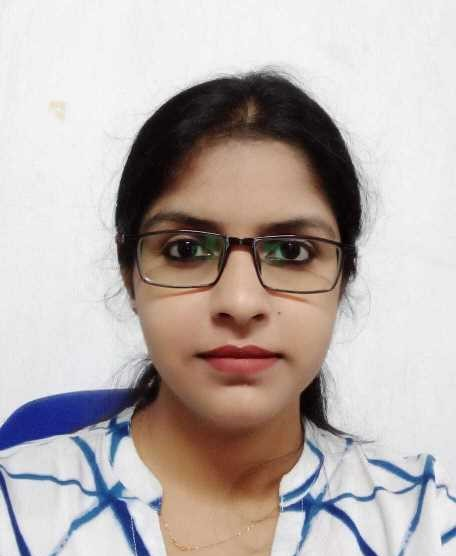
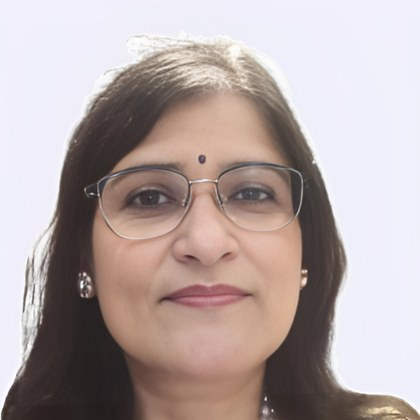
Update faculty list, add memorial tribute screen, sharpen impact infographic
Faculty section:
- Remove the President and Debapriya Roy entries, plus the duplicate
  Chairman card, Monalisa Ghosh and Sananda Chatterjee
- Add Prof. (Dr.) Avipsita Chatterjee and Prof. Sangeeta Sarkar
- Replace the photos for Koushik Dutta, Sanchita Ghosh and Kajari Sur,
  which showed the wrong people, and Baisakhi Das, which was a generic
  placeholder icon. All sourced from the official IEM faculty listings
  and cropped square for the circular card frame.

Tribute screen:
- A memorial for the late President shown after the boot sequence on a
  fresh load, for roughly four seconds including its closing fade.
- Deliberately steps outside the site's neon palette: IEM navy, brass
  and a serif, with a single ring that draws around the portrait once
  and comes to rest rather than spinning.
- Dismissable with Esc, respects prefers-reduced-motion, responsive
  down to 390px.

Impact page:
- Swap the impact infographic for the higher-resolution version from
  the InnovAI presentation deck.

diff --git a/src/components/Tribute.css b/src/components/Tribute.css
@@ -1,0 +1,225 @@
+/* ---------------------------------------------------------------------------
+   Memorial tribute screen.
+
+   The rest of the site runs on cold neon — cyan, electric purple, mono type,
+   rings that spin forever. None of that belongs on a memorial, so this screen
+   keeps only the dark ground for continuity and changes every other variable:
+   warm lamp light instead of neon, brass drawn from the IEM laurel instead of
+   cyan, a serif instead of Inter, and stillness instead of motion. The one
+   piece of movement is a ring that draws itself around the portrait exactly
+   once and stops.
+--------------------------------------------------------------------------- */
+
+.tribute {
+  --ground: #0a0c14;
+  --ground-lift: #161b30;
+  --brass: #c9a45c;
+  --ivory: #f2ede3;
+  --warm-dim: #9a9382;
+
+  position: fixed;
+  inset: 0;
+  z-index: 10000;
+  display: flex;
+  align-items: center;
+  justify-content: center;
+  padding: 40px 24px;
+  background:
+    radial-gradient(circle at 50% 38%, var(--ground-lift) 0%, var(--ground) 58%, #05060b 100%);
+  animation: tributeGroundIn 700ms ease-out both;
+  /* The serif is deliberately a local stack: this screen is the first thing
+     painted, and it must not wait on a webfont to render the name. */
+  font-family: Georgia, "Iowan Old Style", "Palatino Linotype", Palatino, "Times New Roman", serif;
+}
+
+/* Declared after .tribute so its animation wins the cascade — a fill-mode
+   animation on .tribute would otherwise pin opacity at 1 and swallow a
+   transition-based fade out. */
+.tribute--closing {
+  animation: tributeGroundOut 700ms ease forwards;
+}
+
+.tribute__inner {
+  width: 100%;
+  max-width: 620px;
+  text-align: center;
+}
+
+/* --- Portrait ------------------------------------------------------------ */
+
+.tribute__portrait {
+  position: relative;
+  width: 200px;
+  height: 200px;
+  margin: 0 auto 40px;
+  animation: tributeRise 1100ms cubic-bezier(0.22, 0.61, 0.36, 1) 300ms both;
+}
+
+.tribute__portrait img {
+  width: 100%;
+  height: 100%;
+  border-radius: 50%;
+  object-fit: cover;
+  /* The source is a studio portrait on near-white paper. Left alone it burns a
+     hard bright disc into the dark ground, so pull the whites down a little. */
+  filter: saturate(0.94) brightness(0.97);
+  /* A soft warm halo, as if lit by a lamp rather than a screen. */
+  box-shadow:
+    0 0 0 1px rgba(201, 164, 92, 0.22),
+    0 24px 60px rgba(0, 0, 0, 0.6),
+    0 0 90px rgba(201, 164, 92, 0.12);
+}
+
+/* Vignette that settles the portrait into the ground instead of letting it sit
+   on top as a cut-out. */
+.tribute__portrait::after {
+  content: "";
+  position: absolute;
+  inset: 0;
+  border-radius: 50%;
+  pointer-events: none;
+  background: radial-gradient(
+    circle at 50% 42%,
+    rgba(10, 12, 20, 0) 48%,
+    rgba(10, 12, 20, 0.28) 78%,
+    rgba(10, 12, 20, 0.62) 100%
+  );
+}
+
+.tribute__ring {
+  position: absolute;
+  inset: -13px;
+  overflow: visible;
+  /* Start the stroke at 12 o'clock and travel clockwise. */
+  transform: rotate(-90deg);
+}
+
+.tribute__ring circle {
+  fill: none;
+  stroke: var(--brass);
+  stroke-width: 1.25;
+  stroke-linecap: round;
+  /* 2πr for r=97 */
+  stroke-dasharray: 609.5;
+  stroke-dashoffset: 609.5;
+  animation: tributeRingDraw 1900ms cubic-bezier(0.32, 0.72, 0.24, 1) 420ms both;
+}
+
+/* --- Type --------------------------------------------------------------- */
+
+.tribute__eyebrow {
+  font-family: 'Inter', system-ui, sans-serif;
+  font-size: 0.7rem;
+  font-weight: 400;
+  letter-spacing: 0.34em;
+  text-transform: uppercase;
+  color: var(--warm-dim);
+  margin: 0 0 22px;
+  animation: tributeFade 900ms ease-out 1200ms both;
+}
+
+.tribute__name {
+  font-size: clamp(1.75rem, 5.2vw, 2.65rem);
+  font-weight: 400;
+  line-height: 1.24;
+  letter-spacing: 0.005em;
+  color: var(--ivory);
+  margin: 0 0 14px;
+  animation: tributeRise 1000ms cubic-bezier(0.22, 0.61, 0.36, 1) 1500ms both;
+}
+
+.tribute__role {
+  font-family: 'Inter', system-ui, sans-serif;
+  font-size: 0.82rem;
+  font-weight: 300;
+  letter-spacing: 0.11em;
+  color: var(--brass);
+  margin: 0;
+  animation: tributeFade 900ms ease-out 1900ms both;
+}
+
+.tribute__lifespan {
+  font-size: 0.95rem;
+  color: var(--warm-dim);
+  letter-spacing: 0.08em;
+  margin: 12px 0 0;
+  animation: tributeFade 900ms ease-out 2050ms both;
+}
+
+.tribute__line {
+  font-size: clamp(1rem, 2.7vw, 1.2rem);
+  font-style: italic;
+  line-height: 1.62;
+  color: rgba(242, 237, 227, 0.76);
+  /* Wide enough that the line does not orphan its last word, and balanced so
+     the two halves carry roughly equal weight. */
+  max-width: 40ch;
+  text-wrap: balance;
+  margin: 44px auto 0;
+  animation: tributeRise 1000ms cubic-bezier(0.22, 0.61, 0.36, 1) 2300ms both;
+}
+
+/* --- Motion ------------------------------------------------------------- */
+
+@keyframes tributeGroundIn {
+  from { opacity: 0; }
+  to { opacity: 1; }
+}
+
+@keyframes tributeGroundOut {
+  from { opacity: 1; }
+  to { opacity: 0; }
+}
+
+@keyframes tributeRise {
+  from { opacity: 0; transform: translateY(14px); }
+  to { opacity: 1; transform: translateY(0); }
+}
+
+@keyframes tributeFade {
+  from { opacity: 0; }
+  to { opacity: 1; }
+}
+
+@keyframes tributeRingDraw {
+  from { stroke-dashoffset: 609.5; }
+  to { stroke-dashoffset: 0; }
+}
+
+@media (max-width: 520px) {
+  .tribute__portrait {
+    width: 158px;
+    height: 158px;
+    margin-bottom: 32px;
+  }
+
+  .tribute__eyebrow {
+    letter-spacing: 0.26em;
+  }
+
+  .tribute__line {
+    margin-top: 34px;
+  }
+}
+
+/* Reduced motion keeps the fades — they carry the pacing of the tribute — and
+   drops only the travelling parts: the rise on each line and the drawn ring.
+   .tribute itself is left alone so the closing fade still runs. */
+@media (prefers-reduced-motion: reduce) {
+  .tribute__portrait {
+    animation: tributeFade 900ms ease-out 300ms both;
+  }
+
+  .tribute__name {
+    animation: tributeFade 900ms ease-out 1500ms both;
+  }
+
+  .tribute__line {
+    animation: tributeFade 900ms ease-out 2300ms both;
+  }
+
+  .tribute__ring circle {
+    animation: tributeFade 900ms ease-out 420ms both;
+    stroke-dashoffset: 0;
+  }
+}

diff --git a/src/components/Tribute.jsx b/src/components/Tribute.jsx
@@ -1,0 +1,72 @@
+/* eslint-disable react/prop-types */
+import { useEffect, useRef, useState } from "react";
+import "./Tribute.css";
+import portrait from "../assets/president-tribute.jpg";
+
+/* ----------------------------------------------------------------------------
+   Tribute copy — edit these four lines to change what the screen says.
+   `lifespan` is optional: set it to something like "1948 – 2025" to show the
+   years under the role, or leave it empty to omit that line entirely.
+---------------------------------------------------------------------------- */
+const EYEBROW = "In remembrance";
+const NAME = "Prof. (Dr.) Satyajit Chakrabarti";
+const ROLE = "President, Institute of Engineering & Management";
+const LIFESPAN = "";
+const TRIBUTE_LINE = "The institution he built is the lesson he left.";
+
+/* Total time on screen, including the closing fade. */
+const HOLD_MS = 3600;
+const FADE_MS = 700;
+
+function Tribute({ onDone }) {
+  const [closing, setClosing] = useState(false);
+  const finished = useRef(false);
+
+  useEffect(() => {
+    const finish = () => {
+      if (finished.current) return;
+      finished.current = true;
+      setClosing(true);
+      window.setTimeout(onDone, FADE_MS);
+    };
+
+    const hold = window.setTimeout(finish, HOLD_MS);
+    const onKeyDown = (event) => {
+      if (event.key === "Escape" || event.key === "Enter" || event.key === " ") finish();
+    };
+
+    window.addEventListener("keydown", onKeyDown);
+    return () => {
+      window.clearTimeout(hold);
+      window.removeEventListener("keydown", onKeyDown);
+    };
+  }, [onDone]);
+
+  return (
+    <div
+      className={`tribute${closing ? " tribute--closing" : ""}`}
+      role="dialog"
+      aria-modal="true"
+      aria-label={`${EYEBROW}: ${NAME}, ${ROLE}`}
+    >
+      <div className="tribute__inner">
+        <div className="tribute__portrait">
+          <img src={portrait} alt={NAME} />
+          {/* The site's loader spins two rings forever. This one is drawn once
+              and comes to rest — a circle completed. */}
+          <svg className="tribute__ring" viewBox="0 0 200 200" aria-hidden="true">
+            <circle cx="100" cy="100" r="97" />
+          </svg>
+        </div>
+
+        <p className="tribute__eyebrow">{EYEBROW}</p>
+        <h1 className="tribute__name">{NAME}</h1>
+        <p className="tribute__role">{ROLE}</p>
+        {LIFESPAN && <p className="tribute__lifespan">{LIFESPAN}</p>}
+        <p className="tribute__line">{TRIBUTE_LINE}</p>
+      </div>
+    </div>
+  );
+}
+
+export default Tribute;

diff --git a/src/components/Faculty1.jsx b/src/components/Faculty1.jsx
@@ -1,38 +1,32 @@
 import "./Faculty.css";
 
 // Import images...
-import SatyajitChakrabartiPresident from "../assets/teacher1.jpg";
-import SatyajitChakrabartiChairman from "../assets/teacher2.jpg";
 import DrMoutushiSingh from "../assets/teacher3.jpg";
 import AninditaDasBhattacharjee from "../assets/teacher4.jpg";
 import DrSukanyaMukherjee from "../assets/teacher5.jpg";
 import DrSanchitaGhosh from "../assets/teacher6.jpg";
 import ProfKajariSur from "../assets/teacher7.jpg";
 import DrSoumyenduSekharBandyopadhyay from "../assets/teacher8.jpg";
-import DrDebapriyaRoy from "../assets/teacher9.jpg";
 import DrKoushikDutta from "../assets/teacher10.jpg";
-import DrMonalisaGhosh from "../assets/teacher11.jpg";
-import DrSanandaChatterjee from "../assets/teacher12.jpg";
 import DrBaisakhiDas from "../assets/teacher13.jpg";
 import DrRupayanDas from "../assets/teacher14.jpg";
 import DrSusovanJana from "../assets/teacher15.jpg";
+import DrAvipsitaChatterjee from "../assets/teacher16.jpg";
+import ProfSangeetaSarkar from "../assets/teacher17.jpg";
 
 const facultyData = [
-  { name: "Prof. (Dr.) Satyajit Chakrabarti", position: "President", img: SatyajitChakrabartiPresident },
-  { name: "Prof. (Dr.) Satyajit Chakrabarti", position: "Chairman", img: SatyajitChakrabartiChairman },
   { name: "Prof. (Dr.) Moutushi Singh", position: "Convenor", img: DrMoutushiSingh },
   { name: "Prof. Anindita Das Bhattacharjee", position: "Centre In-Charge", img: AninditaDasBhattacharjee },
   { name: "Prof. (Dr.) Sukanya Mukherjee", position: "Assistant HoD, CSE", img: DrSukanyaMukherjee },
   { name: "Prof. (Dr.) Sanchita Ghosh", img: DrSanchitaGhosh },
   { name: "Prof. Kajari Sur", img: ProfKajariSur },
   { name: "Prof. (Dr.) Soumyendu Sekhar Bandyopadhyay", img: DrSoumyenduSekharBandyopadhyay },
-  { name: "Prof. (Dr.) Debapriya Roy", img: DrDebapriyaRoy },
   { name: "Prof. (Dr.) Koushik Dutta", img: DrKoushikDutta },
-  { name: "Prof. (Dr.) Monalisa Ghosh", img: DrMonalisaGhosh },
-  { name: "Prof. (Dr.) Sananda Chatterjee", img: DrSanandaChatterjee },
   { name: "Prof. (Dr.) Baisakhi Das", img: DrBaisakhiDas },
   { name: "Prof. (Dr.) Rupayan Das", img: DrRupayanDas },
   { name: "Prof. (Dr.) Susovan Jana", img: DrSusovanJana },
+  { name: "Prof. (Dr.) Avipsita Chatterjee", img: DrAvipsitaChatterjee },
+  { name: "Prof. Sangeeta Sarkar", img: ProfSangeetaSarkar },
 ];
 
 function Faculty() {

diff --git a/src/App.jsx b/src/App.jsx
@@ -8,6 +8,7 @@ import Gallery from "./components/Gallery";
 import Partnerships1 from "./components/Partnerships1";
 import Footer from "./components/Footer";
 import Loading from "./components/Loading";
+import Tribute from "./components/Tribute";
 import CustomCursor from "./components/CustomCursor";
 import ImpetusPage from "./components/ImpetusPage"; // Import the new page
 import ImpactReportsPage from "./components/ImpactReportsPage";
@@ -17,12 +18,15 @@ import "./App.css";
 
 function App() {
   const [isLoaded, setIsLoaded] = useState(false);
+  // The tribute follows the boot sequence on a fresh load of the site, and is
+  // skipped on client-side navigation between routes.
+  const [tributeShown, setTributeShown] = useState(false);
 
   useEffect(() => {
     // Keep a slight delay for the "Boot Sequence" effect to finish
     const timer = setTimeout(() => {
       setIsLoaded(true);
-    }, 2500); 
+    }, 2500);
 
     return () => clearTimeout(timer);
   }, []);
@@ -31,6 +35,8 @@ function App() {
     <div className="app">
       {!isLoaded ? (
         <Loading />
+      ) : !tributeShown ? (
+        <Tribute onDone={() => setTributeShown(true)} />
       ) : (
         <>
           <CustomCursor />
